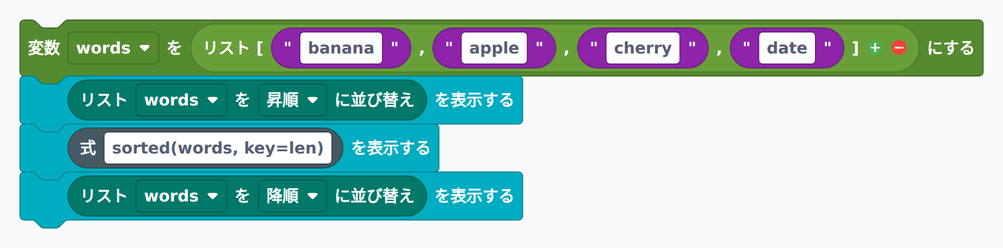
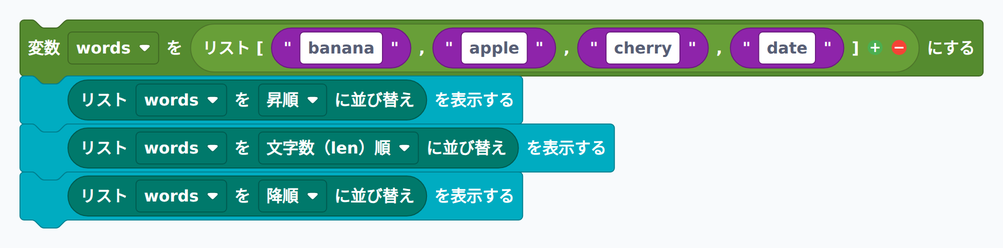
add py_sorted_key_func, py_sorted_dict_two_keys, py_print_multi blocks; fix 0-21 sorted/ans5 XMLs
- python_intro.js: add py_sorted_key_func (sorted with key func), py_sorted_dict_two_keys (2-key lambda sort), py_print_multi (mutation-based multi-value print)
- app.js: add valueToCode/description/breakList entries for new blocks
- intro_0-21_d_sorted.xml: replace py_custom_expr with py_sorted_key_func
- intro_0-21_ans5_sorted_dict.xml: fully rewrite without any py_custom_expr/stmt — uses py_sorted_dict_two_keys + py_print_multi + py_dict_get

Changed region(s): [[0.0618, 0.4798, 0.6181, 0.7056]]

diff --git a/js/blocks/python_intro.js b/js/blocks/python_intro.js
@@ -1177,6 +1177,85 @@ Blockly.Blocks['py_sorted_call'] = {
   }
 };
 
+Blockly.Blocks['py_sorted_key_func'] = {
+  init: function() {
+    this.appendDummyInput()
+      .appendField('リスト')
+      .appendField(new Blockly.FieldVariable('my_list'), 'LIST')
+      .appendField('を')
+      .appendField(new Blockly.FieldDropdown([
+        ['文字数（len）順', 'len'],
+        ['文字列（str）順', 'str'],
+        ['整数値（int）順', 'int'],
+        ['絶対値（abs）順', 'abs'],
+      ]), 'KEY')
+      .appendField('に並び替え');
+    this.setInputsInline(true);
+    this.setOutput(true, null);
+    this.setColour(P.builtins);
+    this.setTooltip('sorted(list, key=func) でリストをキー関数の順に並び替えます');
+  }
+};
+
+Blockly.Blocks['py_sorted_dict_two_keys'] = {
+  init: function() {
+    this.appendDummyInput()
+      .appendField('辞書リスト')
+      .appendField(new Blockly.FieldVariable('students'), 'LIST');
+    this.appendDummyInput()
+      .appendField('をキー1「')
+      .appendField(new Blockly.FieldTextInput('key1'), 'KEY1')
+      .appendField('」')
+      .appendField(new Blockly.FieldDropdown([['昇順', 'asc'], ['降順', 'desc']]), 'REV1');
+    this.appendDummyInput()
+      .appendField('キー2「')
+      .appendField(new Blockly.FieldTextInput('key2'), 'KEY2')
+      .appendField('」')
+      .appendField(new Blockly.FieldDropdown([['昇順', 'asc'], ['降順（数値）', 'desc']]), 'REV2');
+    this.appendDummyInput().appendField('でソート');
+    this.setInputsInline(false);
+    this.setOutput(true, null);
+    this.setColour(P.builtins);
+    this.setTooltip('辞書リストを2つのキーでソートします。キー2の降順は数値のみ有効です。');
+  }
+};
+
+Blockly.Blocks['py_print_multi'] = {
+  itemCount_: 2,
+  init: function() {
+    this.setColour(P.display);
+    this.setPreviousStatement(true, null);
+    this.setNextStatement(true, null);
+    this.setTooltip('複数の値をスペース区切りで表示します（print(a, b, ...)）');
+    this.rebuildShape_();
+  },
+  rebuildShape_: function() {
+    let i = 0;
+    while (this.getInput('ITEM' + i)) { this.removeInput('ITEM' + i); i++; }
+    if (this.getInput('BOTTOM')) this.removeInput('BOTTOM');
+    if (!this.getInput('TOP')) {
+      this.appendDummyInput('TOP').appendField('表示（複数）');
+    }
+    for (let j = 0; j < this.itemCount_; j++) {
+      this.appendValueInput('ITEM' + j).appendField(j === 0 ? '' : ',');
+    }
+    this.appendDummyInput('BOTTOM')
+      .appendField(new Blockly.FieldImage(_LIST_PLUS,  16, 16, '+', () => { this.itemCount_++; this.rebuildShape_(); }))
+      .appendField(new Blockly.FieldImage(_LIST_MINUS, 16, 16, '-', () => { if (this.itemCount_ > 1) { this.itemCount_--; this.rebuildShape_(); } }));
+    this.setInputsInline(true);
+  },
+  mutationToDom: function() {
+    const el = document.createElement('mutation');
+    el.setAttribute('items', this.itemCount_);
+    return el;
+  },
+  domToMutation: function(xmlElement) {
+    const n = parseInt(xmlElement.getAttribute('items'), 10);
+    if (!isNaN(n)) this.itemCount_ = n;
+    this.rebuildShape_();
+  }
+};
+
 Blockly.Blocks['py_min_call'] = {
   init: function() {
     this.appendDummyInput()

diff --git a/js/app.js b/js/app.js
@@ -441,6 +441,9 @@ document.addEventListener('DOMContentLoaded', function() {
       case 'py_str_concat':  return '文字列連結';
       case 'py_while':       return 'while ループ';
       case 'py_print':       return '値を表示する';
+      case 'py_print_multi': return '複数の値をスペース区切りで表示';
+      case 'py_sorted_key_func':      return `リスト「${getVarName(block, 'LIST')}」を${block.getFieldValue('KEY')}順に並び替え`;
+      case 'py_sorted_dict_two_keys': return `辞書リスト「${getVarName(block, 'LIST')}」を2キーでソート`;
       case 'py_input': {
         const typeLabel = { str: 'テキスト', int: '数値（整数）', float: '数値（小数）' }[block.getFieldValue('TYPE')] || 'テキスト';
         return `キーボード入力（${typeLabel}）→ 変数「${getVarName(block, 'VAR')}」`;
@@ -821,6 +824,21 @@ document.addEventListener('DOMContentLoaded', function() {
         const sortList    = getVarName(block, 'LIST');
         const sortReverse = block.getFieldValue('REVERSE') || 'False';
         return `sorted(${sortList}, reverse=${sortReverse})`;
+      }
+      case 'py_sorted_key_func': {
+        const skList = getVarName(block, 'LIST');
+        const skKey  = block.getFieldValue('KEY') || 'len';
+        return `sorted(${skList}, key=${skKey})`;
+      }
+      case 'py_sorted_dict_two_keys': {
+        const sdList = getVarName(block, 'LIST');
+        const sdKey1 = block.getFieldValue('KEY1') || 'key1';
+        const sdRev1 = block.getFieldValue('REV1');
+        const sdKey2 = block.getFieldValue('KEY2') || 'key2';
+        const sdRev2 = block.getFieldValue('REV2');
+        const expr1 = sdRev1 === 'desc' ? `-_s["${sdKey1}"]` : `_s["${sdKey1}"]`;
+        const expr2 = sdRev2 === 'desc' ? `-_s["${sdKey2}"]` : `_s["${sdKey2}"]`;
+        return `sorted(${sdList}, key=lambda _s: (${expr1}, ${expr2}))`;
       }
       case 'py_min_call':
         return `min(${getVarName(block, 'LIST')})`;
@@ -1439,6 +1457,8 @@ document.addEventListener('DOMContentLoaded', function() {
       case 'py_ternary':
       case 'py_dict_comp':
       case 'py_set_comp':
+      case 'py_sorted_key_func':
+      case 'py_sorted_dict_two_keys':
         break;
       case 'pico_for_range': {
         const v      = getVarName(block, 'VAR');
@@ -1530,6 +1550,14 @@ document.addEventListener('DOMContentLoaded', function() {
         registerExprBlocksAtLineFromInput(block, 'VALUE', lnPrint);
         const val = valueToCode(block, 'VALUE', '""');
         code = appendLocal(code, indent + `print(${val})\n`);
+        break;
+      }
+      case 'py_print_multi': {
+        const pmItems = [];
+        for (let i = 0; i < (block.itemCount_ || 2); i++) {
+          pmItems.push(valueToCode(block, 'ITEM' + i, '""'));
+        }
+        code = appendLocal(code, indent + `print(${pmItems.join(', ')})\n`);
         break;
       }
       case 'py_set_add': {
